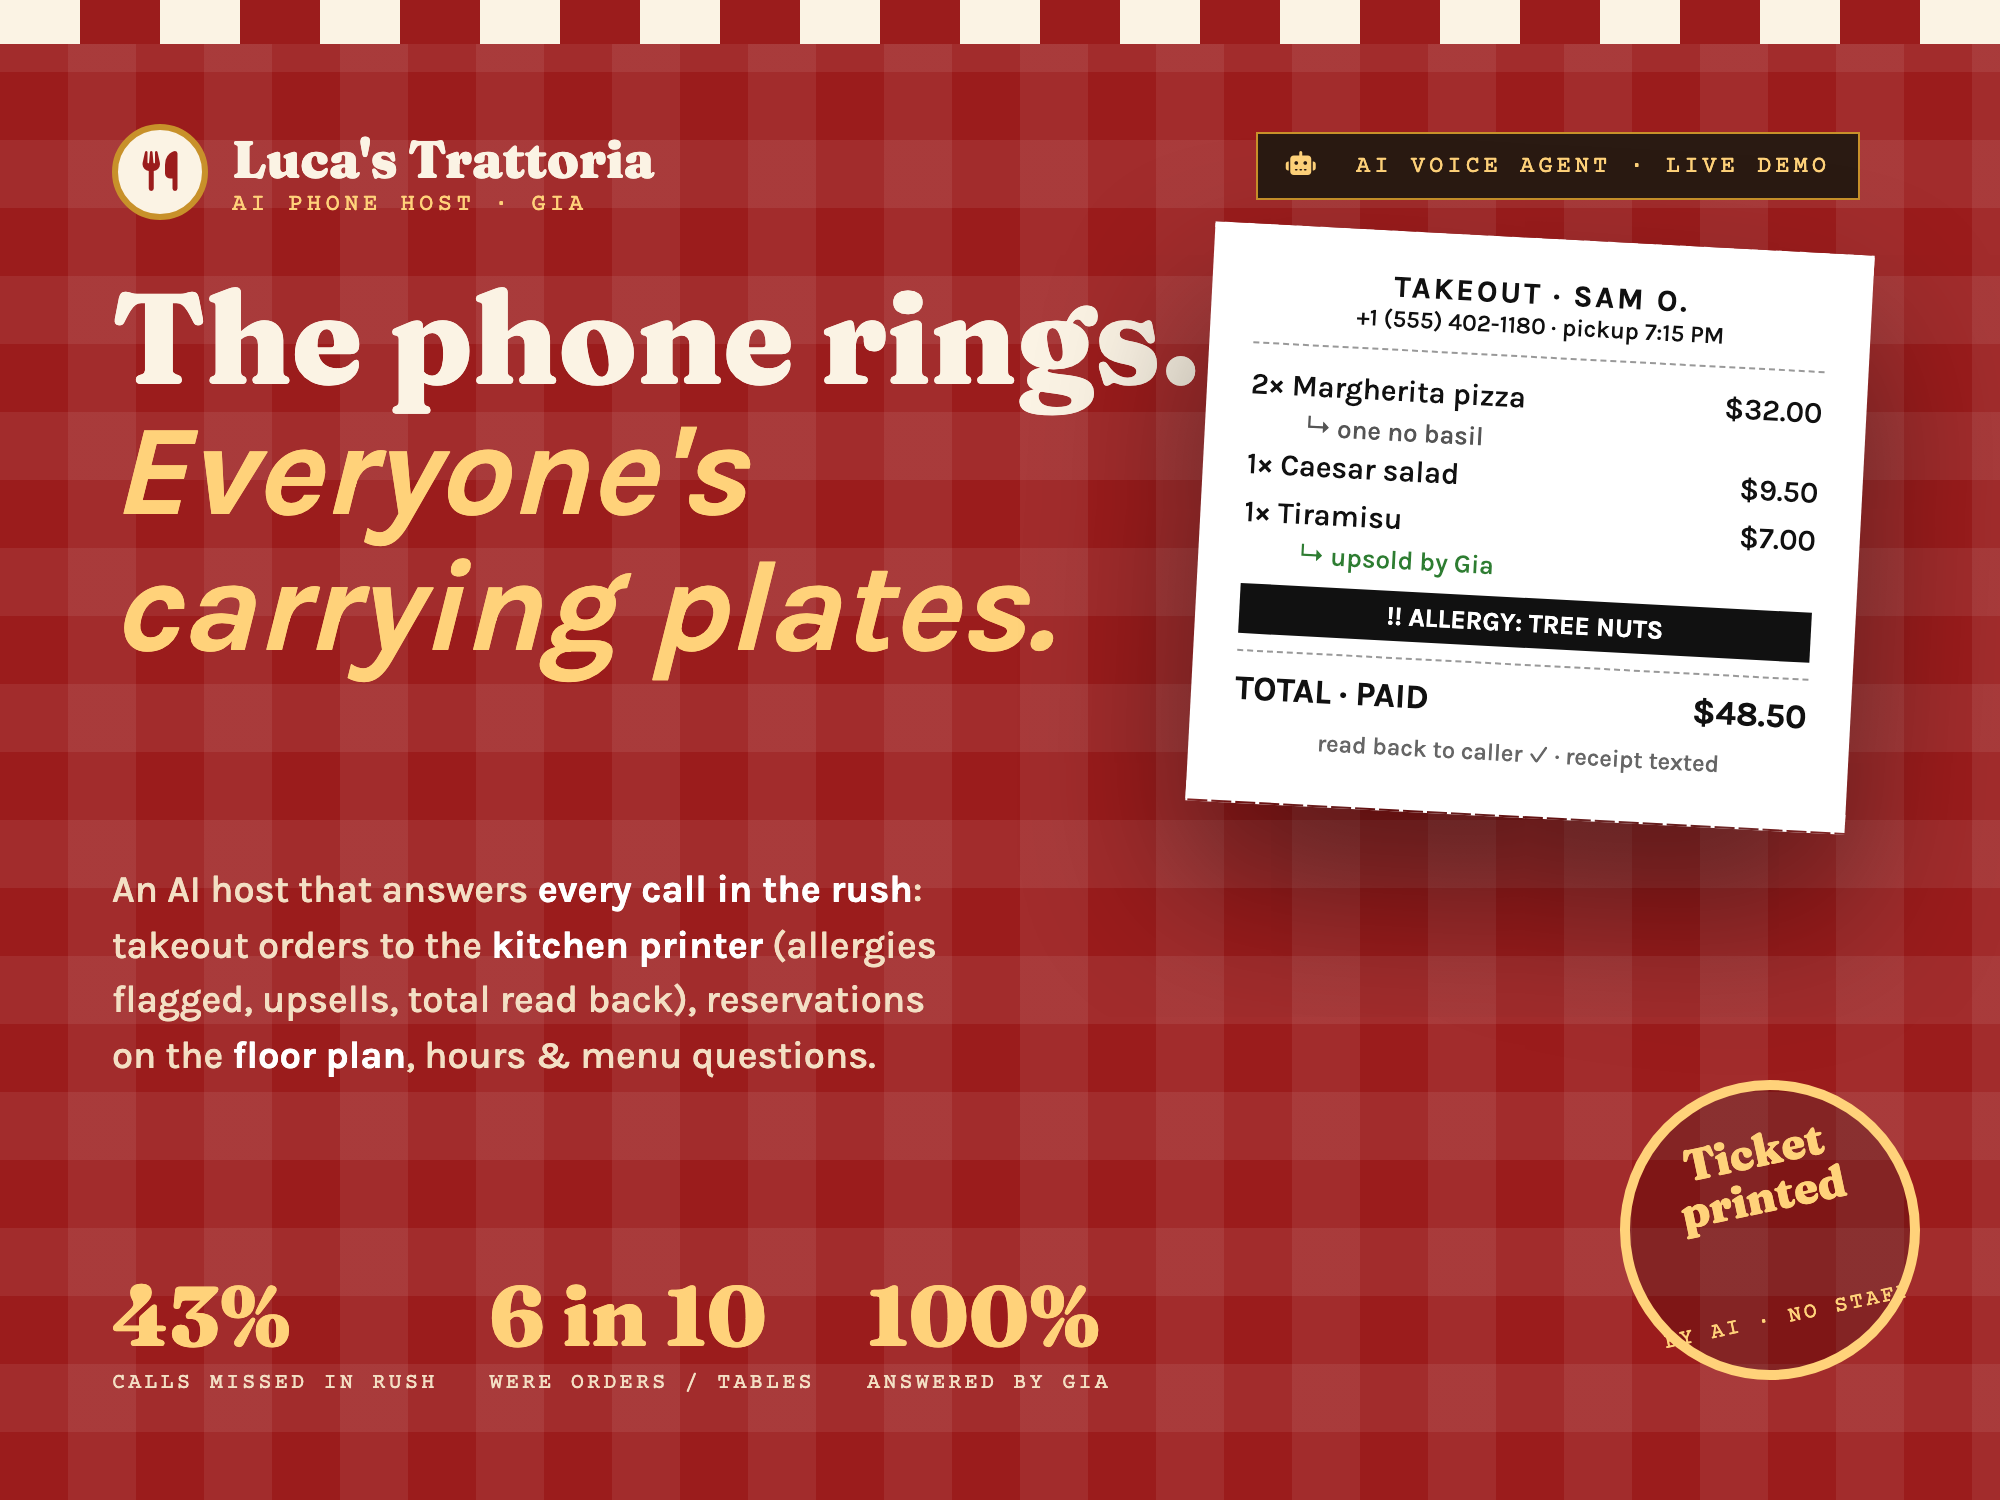
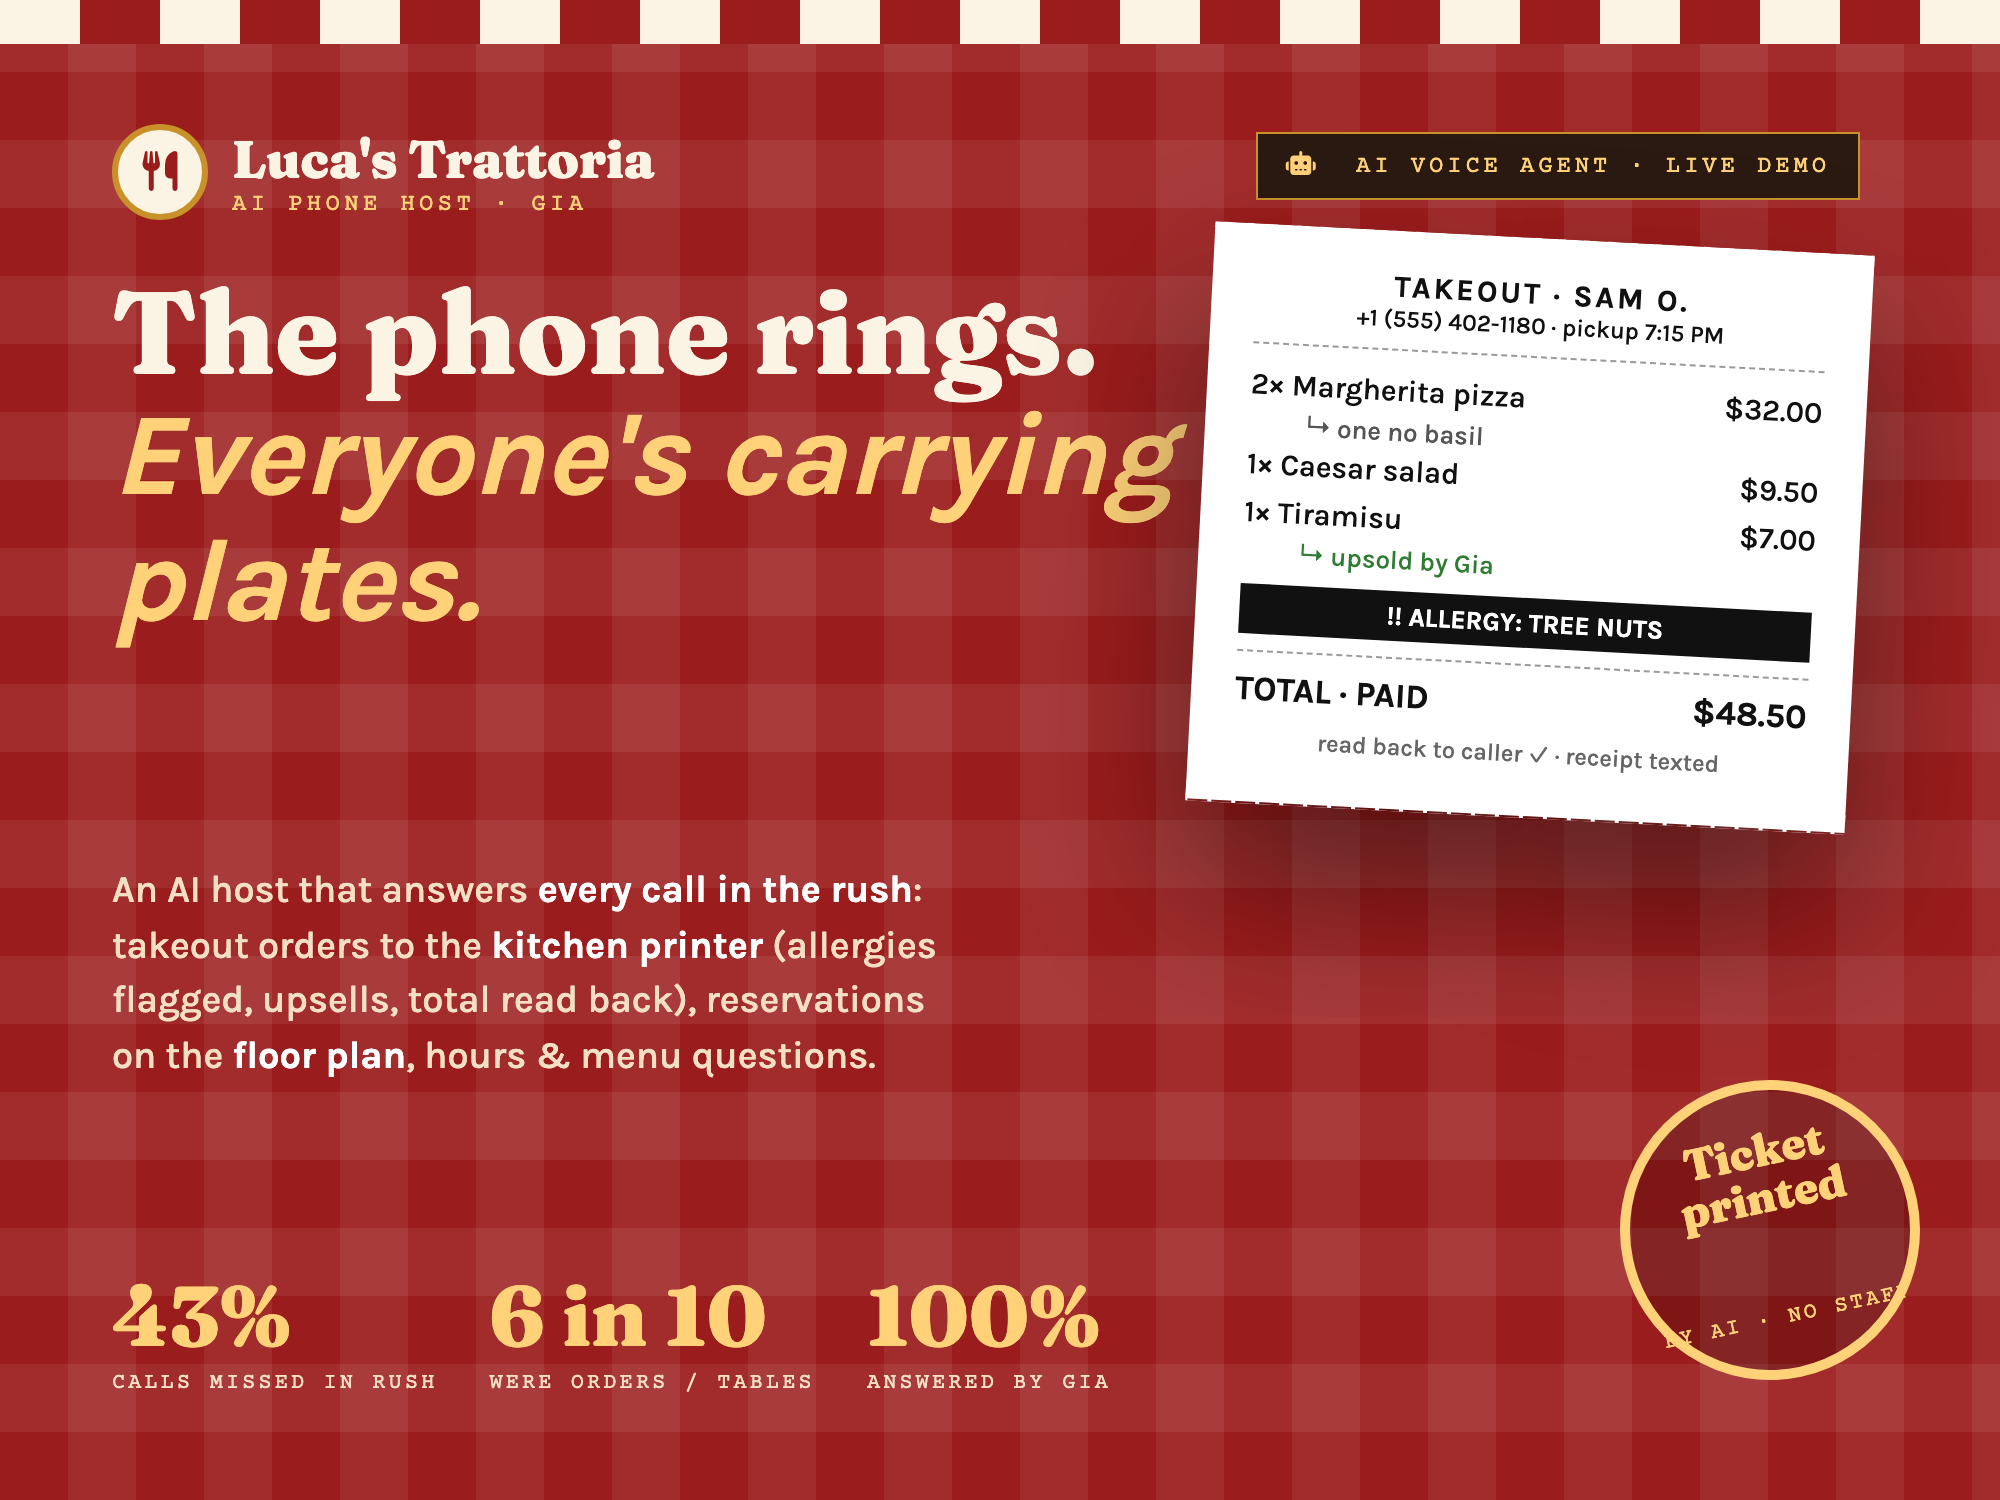
Luca copy + thumb

Changed region(s): [[0.062, 0.184, 0.589, 0.46]]

diff --git a/docs/thumb-luca.html b/docs/thumb-luca.html
@@ -9,7 +9,7 @@ body{width:1000px;height:750px;overflow:hidden;position:relative;background:#9b1
 .brand{position:absolute;left:56px;top:62px;display:flex;align-items:center;gap:12px}
 .brand .lg{width:48px;height:48px;border-radius:50%;background:#fbf3e4;color:#9b1c1c;display:grid;place-items:center;font-size:20px;border:3px solid #c8912a}
 .brand b{font-family:Fraunces,serif;font-size:26px;font-weight:800}.brand span{display:block;font-family:'Courier Prime',monospace;font-size:12px;letter-spacing:.18em;text-transform:uppercase;color:#ffd27a}
-h1{position:absolute;left:56px;top:136px;font-family:Fraunces,serif;font-size:64px;line-height:1.02;font-weight:800;width:560px}
+h1{position:absolute;left:56px;top:136px;font-family:Fraunces,serif;font-size:58px;line-height:1.04;font-weight:800;width:540px}
 h1 em{font-style:italic;color:#ffd27a}
 .sub{position:absolute;left:56px;top:432px;width:430px;font-size:19px;line-height:1.45;color:#f3dfc4;font-weight:500}
 .sub b{color:#fff;font-weight:700}
